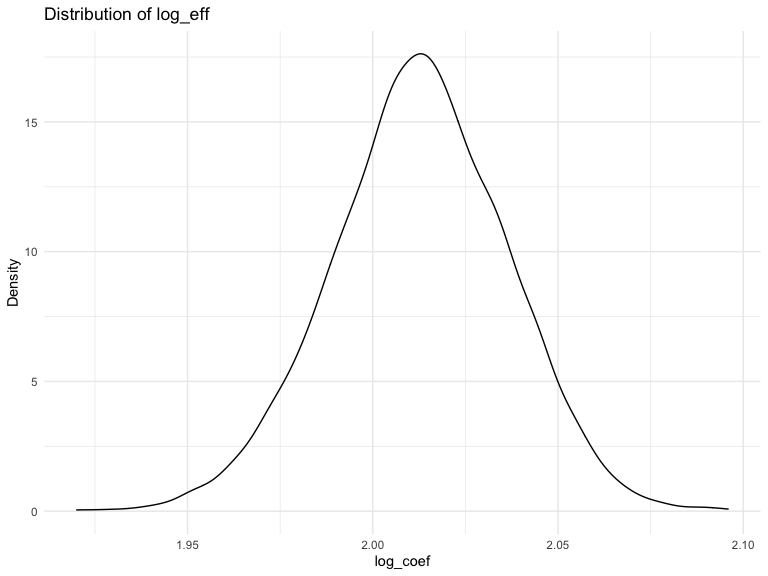
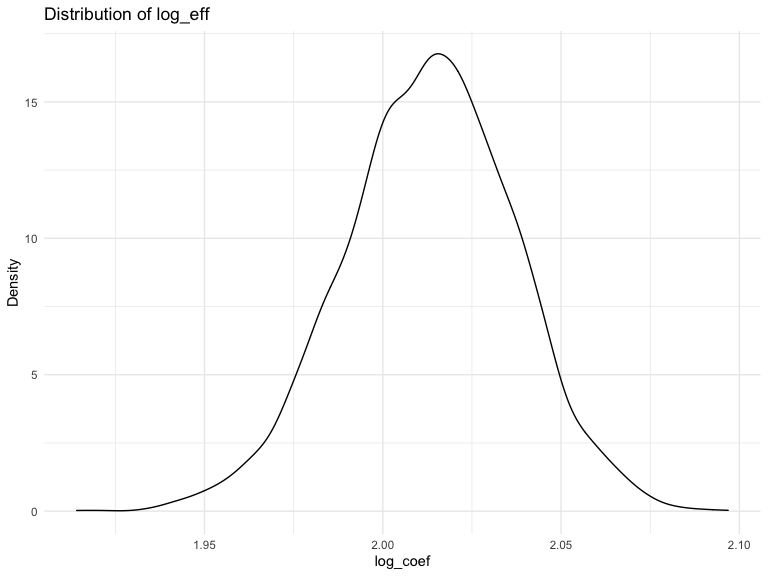
final updates

diff --git a/p8105_hw6_th2533.md b/p8105_hw6_th2533.md
@@ -1,7 +1,7 @@
 Homework 6 solutions
 ================
 Tianheng Hu
-2020-12-06
+2020-12-09
 
 ``` r
 library(tidyverse)
@@ -356,16 +356,16 @@ bootstrap_results %>%
     ## # A tibble: 10,000 x 1
     ##    r.squared
     ##        <dbl>
-    ##  1     0.927
-    ##  2     0.927
-    ##  3     0.912
-    ##  4     0.912
-    ##  5     0.908
-    ##  6     0.908
-    ##  7     0.920
-    ##  8     0.920
-    ##  9     0.940
-    ## 10     0.940
+    ##  1     0.917
+    ##  2     0.917
+    ##  3     0.926
+    ##  4     0.926
+    ##  5     0.923
+    ##  6     0.923
+    ##  7     0.912
+    ##  8     0.912
+    ##  9     0.925
+    ## 10     0.925
     ## # … with 9,990 more rows
 
 ``` r
@@ -378,8 +378,8 @@ ggplot(aes(x = r.squared)) + geom_density()+
 
 <img src="p8105_hw6_th2533_files/figure-gfm/unnamed-chunk-14-1.png" width="90%" />
 
-The 95% CI limit for adjusted R square is between 0.8943299 and
-0.9272898
+The 95% CI limit for adjusted R square is between 0.8939011 and
+0.9275567
 
 ``` r
 bootstrap_logestimates = bootstrap_results %>% 
@@ -388,11 +388,11 @@ bootstrap_logestimates = bootstrap_results %>%
     values_from = estimate
   ) %>% 
   rename(
-    beta0 = "(Intercept)",
-    beta1 = "tmin",
+    beta_0 = "(Intercept)",
+    beta_1 = "tmin",
   ) %>% 
   mutate(
-    log_coef = log(beta0*beta1)
+    log_coef = log(beta_0*beta_1)
   )
 
 bootstrap_logestimates%>% 
@@ -403,4 +403,4 @@ ggplot(aes(x = log_coef)) + geom_density()+
 ```
 
 <img src="p8105_hw6_th2533_files/figure-gfm/unnamed-chunk-15-1.png" width="90%" />
-The 95% CI limit for log\_coef is between 1.9646416 and 2.057901
+The 95% CI limit for logcoef is between 1.9641208 and 2.0592011
